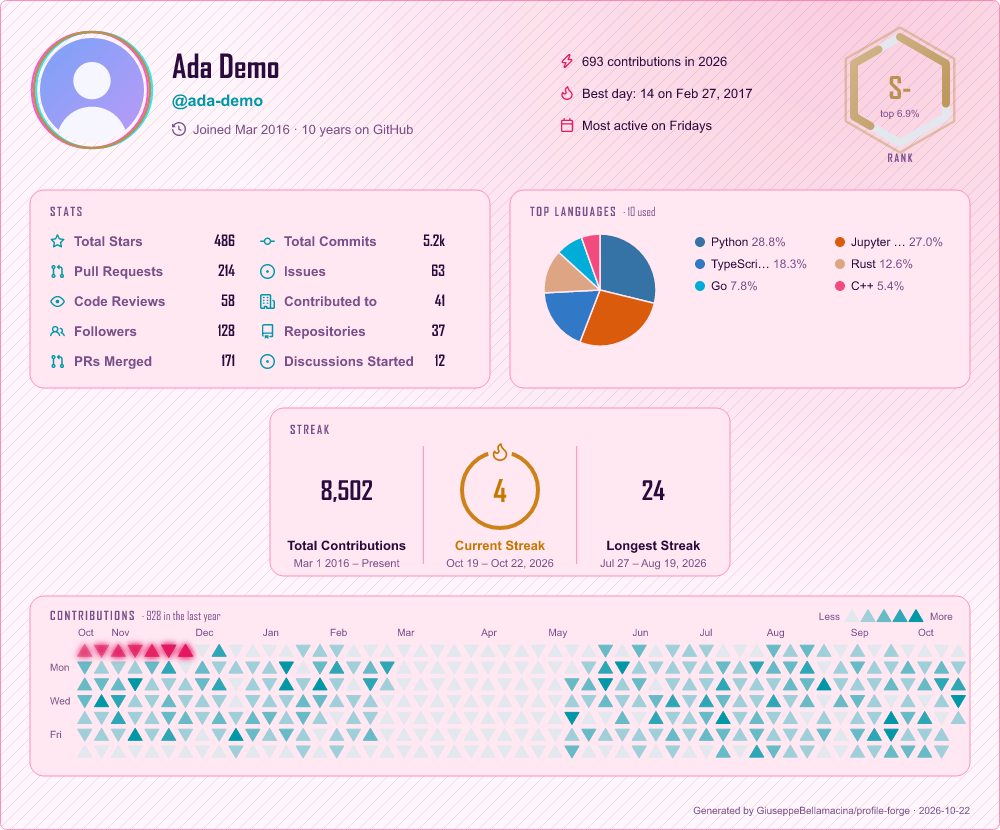
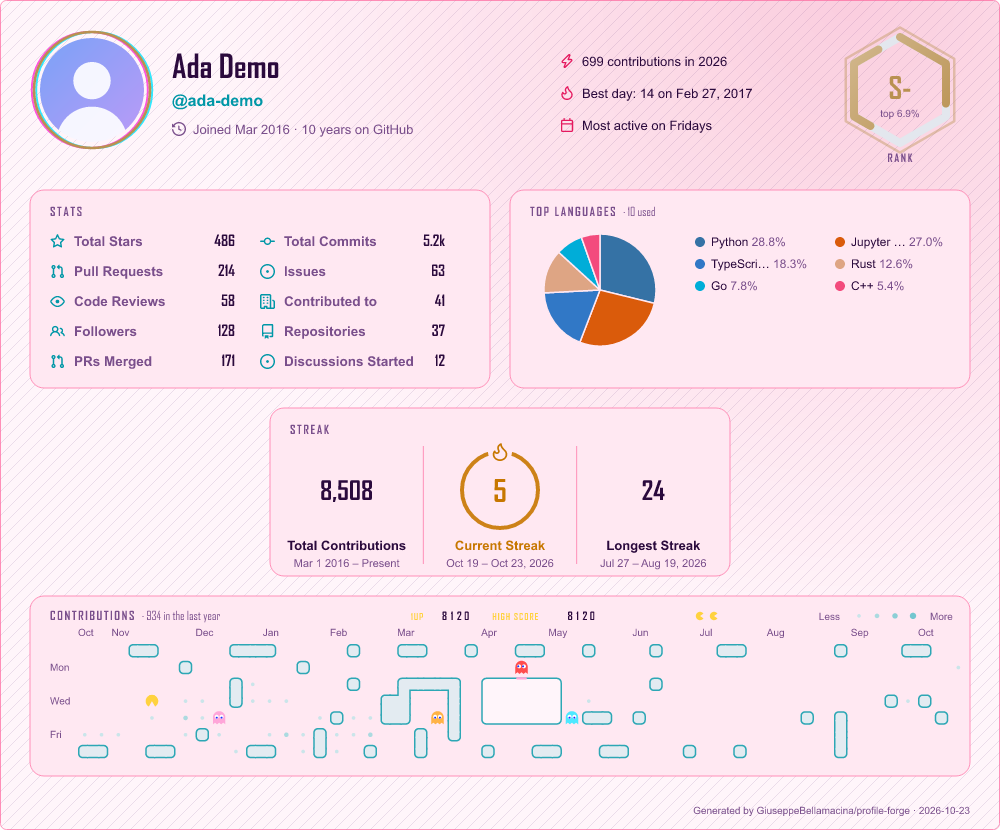
Pac-Man: the sprites and the score fade in after the board; terminal and cyberpunk presets play Pac-Man

diff --git a/src/render.js b/src/render.js
@@ -1044,7 +1044,7 @@ function heatmapSection(d, X, W = 940) {
           )
           .join("")
   }
-  ${o.mode === "snake" ? snakeSvg() : pac ? pacSprites() : ""}
+  ${o.mode === "snake" ? snakeSvg() : pac ? `<g${A.a(2.3, 0.5, { o: 0 })}>${pacSprites()}</g>` : ""}
   ${
     o.legend
       ? `<g${A.a(2.4, 0.5, { o: 0 })}>

diff --git a/presets/README.md b/presets/README.md
@@ -12,10 +12,10 @@ Every preset defines a `dark` and a `light` slot, so the README `<picture>` snip
 |---|---|
 | [`minimal`](minimal.json) | Small and quiet: no border, no glow, a few numbers, plain square grid |
 | [`dashboard`](dashboard.json) | Dracula / Gruvbox, donut languages, trophies, snake that eats the busiest days first |
-| [`terminal`](terminal.json) | Green-on-black hacker look, `$ stats` titles, a long lime snake sweeping column by column |
+| [`terminal`](terminal.json) | Green-on-black hacker look, `$ stats` titles, a game of Pac-Man on the arcade-style `classic` maze |
 | [`pastel-it`](pastel-it.json) | Catppuccin, Italian labels, sakura frame, vertical donut, moon-phase heatmap |
 | [`trophy-case`](trophy-case.json) | Trophies first by level, two highlighted, laurel frame, triangle heatmap |
-| [`cyberpunk`](cyberpunk.json) | Two `customThemes` (neon dark + a matching light), pie chart, glitch frame, glowing spiral snake on triangles |
+| [`cyberpunk`](cyberpunk.json) | Two `customThemes` (neon dark + a matching light), pie chart, glitch frame, Pac-Man on a maze made of your quiet days |
 | [`portfolio`](portfolio.json) | Replaces your whole README: about, projects, links, tech stack by category, mixed-shape heatmap |
 | [`streak-focus`](streak-focus.json) | Consistency view: streaks, weekday rhythm, flames frame, snake row by row on a honeycomb |
 | [`open-source`](open-source.json) | Merged PRs, discussions, weighted languages, trophies by level, monthly rhythm, snowflake heatmap |
